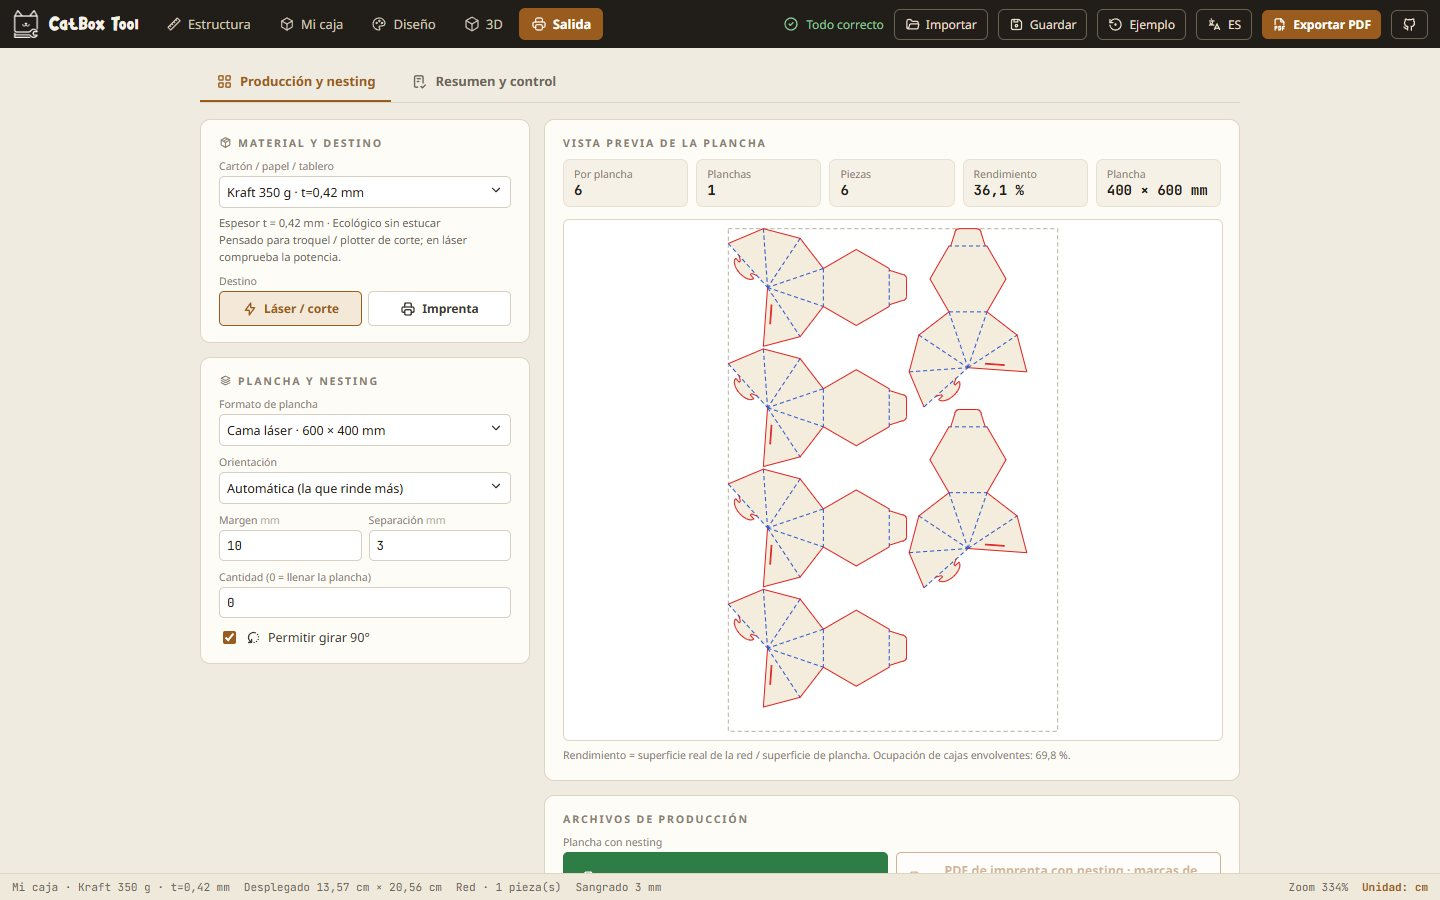
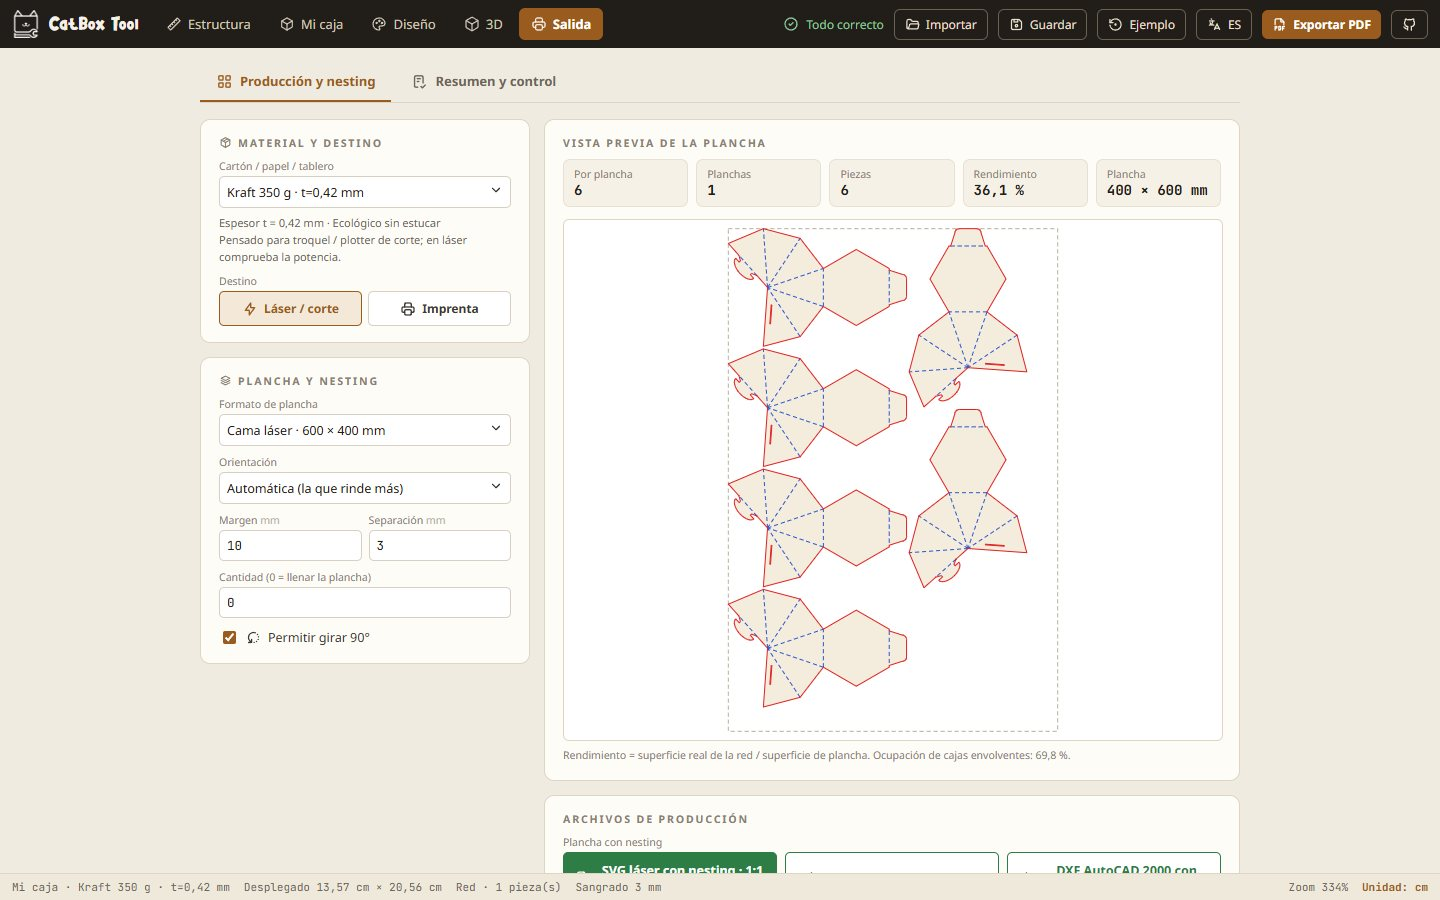
chore(release): v0.2.0 with bilingual README and new screenshots

Changed region(s): [[0.4062, 0.9333, 0.625, 0.9956], [0.6562, 0.9644, 0.8125, 0.9956], [0.5312, 0.56, 0.5625, 0.5911]]

diff --git a/README.md b/README.md
@@ -33,14 +33,22 @@ CatBox Tool adapta OpenBox3D al español, inglés y chino, suma herramientas par
 ### Funciones
 
 - **Biblioteca de troqueles**: tuck inverso y recto, caja de envío, tapa y base, cajón, cilindro, hexágono y envolvente, con compensación de espesor, sangrado y zona segura.
-- **Mi caja**: caja paramétrica rápida o editor de red avanzado. Se agregan, mueven y ajustan caras, solapas, lengüetas, cortes, pliegues y ranuras, con reglas, guías y desplazamiento fino.
-- **Caras de forma libre** (v0.1.4): una cara con `shape: "poly"` lleva su propio contorno en `pts` (mm locales, bisagra de `[0,0]` a `[w,0]`). Permite pirámides, bisagras inclinadas y lóbulos curvos (tapas de corazón).
+- **Mi caja**: caja paramétrica rápida o editor de red avanzado, con reglas, guías y desplazamiento fino.
+  - **Empezar desde cero** con una base cuadrada, rectangular, triangular, de trapecio, hexagonal u octogonal.
+  - **Paleta de formas y solapas**: arrastra una cara o solapa hasta cualquier borde y se pega sola; también con los «+» de cada borde libre. Una solapa se puede pegar en otra solapa.
+  - **Lados reales**: en triángulos y cualquier silueta no rectangular, las solapas se apoyan en los lados de verdad y se recortan en inglete para no pisarse en las esquinas.
+  - **Perfiles de solapa**: recta, lengüeta, guardapolvo, pegado, asimétrica (recta de un lado, en ángulo del otro), circular, recta + curva, redondeada, seta; inglete y radio de esquina por lado.
+  - **Forma libre**: cualquier cara se convierte en vértices editables (arrastrar, añadir, borrar).
+  - **Cortes, pliegues, punteado (perforación), ranuras con extremos redondeados y agujeros circulares**, también visibles como huecos en 3D.
+- **Caras de forma libre** en archivos: una cara con `shape: "poly"` lleva su propio contorno en `pts` (mm locales, bisagra de `[0,0]` a `[w,0]`).
 - **Cajas autobloqueantes sin pegamento**: lengüetas tipo hongo que pasan por ranuras de 0,8 mm, trabas de esquina y tapas con solapa de una sola pieza.
 - **Revisión automática**: detecta caras, solapas y ranuras incoherentes y sugiere correcciones.
-- **Diseño**: texto, imágenes y formas por cara, con acabados por capa (oro/plata, UV, brillo, holográfico, relieve). Cada capa se recorta a la cara a la que pertenece.
+- **Diseño estilo Photoshop**: barra de herramientas con atajos (mover, texto, formas, imagen, mano, zoom, cuentagotas), transformar con tiradores, panel de capas (reordenar, bloquear, opacidad, modos de fusión), alinear y distribuir, selección múltiple y transformación en grupo, degradados, sombras, contorno de texto, máscara de recorte, guías inteligentes y portapapeles.
+  - **Pensado para caras no rectangulares**: fondo con la forma exacta de la cara (triángulo, hexágono…), rellenar o ajustar a la cara real, centrar en el centroide y alinear con un borde.
+  - Acabados por capa (oro/plata, UV, brillo, holográfico, relieve). Cada capa se recorta a la cara a la que pertenece.
 - **Editor de imágenes**: capas, pincel, borrador, formas, texto, recorte, ajustes y quitar fondo.
-- **Vista 3D**: materiales PBR y plegado paso a paso. El arte se mapea exacto en caras con cualquier ángulo de bisagra y las redes plegadas ya no se ven espejadas (v0.1.4).
-- **Producción**: SVG láser 1:1 con capas de corte y pliegue, PDF para imprenta con sangrado y separaciones, y nesting de varias cajas por plancha.
+- **Vista 3D**: materiales PBR y plegado paso a paso, con la misma silueta que el troquel 2D. Renderiza solo cuando algo cambia: sin consumo en reposo y repintado de capas en ~30 ms.
+- **Producción**: SVG láser 1:1 y **DXF R12 y AutoCAD 2000** con capas CORTE (rojo), MARCADO (azul) y PUNTEADO (azul, partido en trazos reales de 3/2 mm), PDF para imprenta con sangrado y separaciones, y nesting de varias cajas por plancha.
 - **Proyectos** `.boxproj` locales (sin servidor, cuenta ni telemetría). Se pueden abrir por URL: `?project=/ruta/archivo.boxproj`.
 
 ### Inicio rápido
@@ -70,14 +78,22 @@ CatBox Tool ports OpenBox3D to Spanish, English and Chinese, and adds more box-b
 ### Features
 
 - **Dieline library**: reverse and straight tuck, mailer, lid & base, drawer, cylinder, hexagon and wrap boxes, with material thickness compensation, bleed and safe zone.
-- **My box**: quick parametric box or advanced net editor. Add, move and resize faces, flaps, tabs, cuts, creases and slots, with rulers, guides and fine nudging.
-- **Free-form faces** (v0.1.4): a face with `shape: "poly"` carries its own outline in `pts` (panel-local mm, hinge from `[0,0]` to `[w,0]`). Pyramids, slanted hinges and curved lobes (heart lids) work.
+- **My box**: quick parametric box or advanced net editor, with rulers, guides and fine nudging.
+  - **Start from scratch** with a square, rectangle, triangle, trapezoid, hexagon or octagon base.
+  - **Shapes and flaps palette**: drag a face or flap onto any edge and it snaps into place; or use the "+" on each free edge. A flap can be attached to another flap.
+  - **Real sides**: on triangles and any non-rectangular outline, flaps sit on the true sides and are mitred so they don't overlap at the corners.
+  - **Flap profiles**: straight, tuck, dust, glue, asymmetric (straight on one side, angled on the other), circular, straight + curved, rounded, mushroom lock; mitre and corner radius per side.
+  - **Free form**: turn any face into editable vertices (drag, add, delete).
+  - **Cuts, creases, perforation lines, rounded-end slots and circular holes**, also shown as openings in 3D.
+- **Free-form faces** in files: a face with `shape: "poly"` carries its own outline in `pts` (panel-local mm, hinge from `[0,0]` to `[w,0]`).
 - **Self-locking boxes, no glue**: mushroom tabs through 0.8 mm slits, corner locks and one-piece tuck lids.
 - **Smart checks**: preflight detects inconsistent faces, flaps and slots and suggests fixes.
-- **Design**: text, images and shapes per face, with per-layer finishes (gold/silver foil, spot UV, gloss, holographic, emboss). Each layer is clipped to the face it belongs to.
+- **Photoshop-style design**: toolbar with shortcuts (move, text, shapes, image, hand, zoom, eyedropper), on-canvas transform, layers panel (reorder, lock, opacity, blend modes), align and distribute, multi-select and group transform, gradients, drop shadows, text outline, clipping mask, smart guides and clipboard.
+  - **Built for non-rectangular faces**: a background with the exact face outline (triangle, hexagon…), fill or fit to the real face, centre on the centroid and align to an edge.
+  - Per-layer finishes (gold/silver foil, spot UV, gloss, holographic, emboss). Each layer is clipped to the face it belongs to.
 - **Image editor**: layers, brush, eraser, shapes, text, crop, adjustments and background removal.
-- **3D preview**: PBR materials and step-by-step folding. Art is mapped exactly on faces at any hinge angle, and folded nets are no longer shown mirrored (v0.1.4).
-- **Production output**: 1:1 laser SVG with cut and crease layers, print PDF with bleed and separations, and nesting of several boxes per sheet.
+- **3D preview**: PBR materials and step-by-step folding, with the same outline as the 2D dieline. Renders only when something changes: no load while idle and layer repaints in ~30 ms.
+- **Production output**: 1:1 laser SVG and **DXF R12 and AutoCAD 2000** with CORTE (red, cut), MARCADO (blue, crease) and PUNTEADO (blue, perforation split into real 3/2 mm dashes) layers, print PDF with bleed and separations, and nesting of several boxes per sheet.
 - **Projects**: local `.boxproj` files (no server, no account, no telemetry). Open one by URL: `?project=/path/file.boxproj`.
 
 ### Quick start

diff --git a/docs/ROADMAP.md b/docs/ROADMAP.md
@@ -58,6 +58,17 @@ Status legend: ☐ todo · ◐ in progress · ☑ done
 - ☑ `?project=<url>` opens a `.boxproj` at startup
 - ☐ UI to draw/edit `poly` outlines (today they come from project files)
 
+## 9. v0.2.0 — builder, designer, DXF, 3D performance
+- ☑ Builder: shape palette (drag onto any edge, "+" on free edges), start from scratch, real polygon sides on every non-rect face, mitred flaps, flaps on flaps, flaps follow their edge (`fit`)
+- ☑ Flap profiles: asymmetric, circular (`halfdisc`), straight + curved (`quarter`), corner radius per side (`roundL`/`roundR`), mitre per side (`miterL`/`miterR`)
+- ☑ Free-form faces: vertex editing on canvas (`toFreeForm`, `editVertex`)
+- ☑ Line kinds: cut, crease, perforation (`perf`), slot (optional rounded ends), circular hole (`hole`); holes cut in the 3D mesh
+- ☑ Safe zones and resize handles follow the real outline
+- ☑ Designer: Photoshop-style toolbar and layers, transform, align/distribute, multi-select and group transform, gradients, shadows, text outline, clipping mask, face-shaped layers, fit/cover to face, centroid centring
+- ☑ DXF R12 / AutoCAD 2000 export (CORTE, MARCADO, PUNTEADO with real dashes); perforation layer in laser SVG
+- ☑ 3D: render on demand, cached shadows and paper maps, 1×1 empty channels
+- Checks: `node scripts/check-builder-flaps.mjs`, `node scripts/check-builder-shapes.mjs`, `node scripts/check-dxf.mjs`, `npm run check:template-sync`
+
 ## Known limits / next
 - Nesting packs the bounding box of the whole dieline (no contour interlock, no per-piece split).
 - Templates converted to «Mi caja» lose the 3D assembly info of lid/drawer templates.
